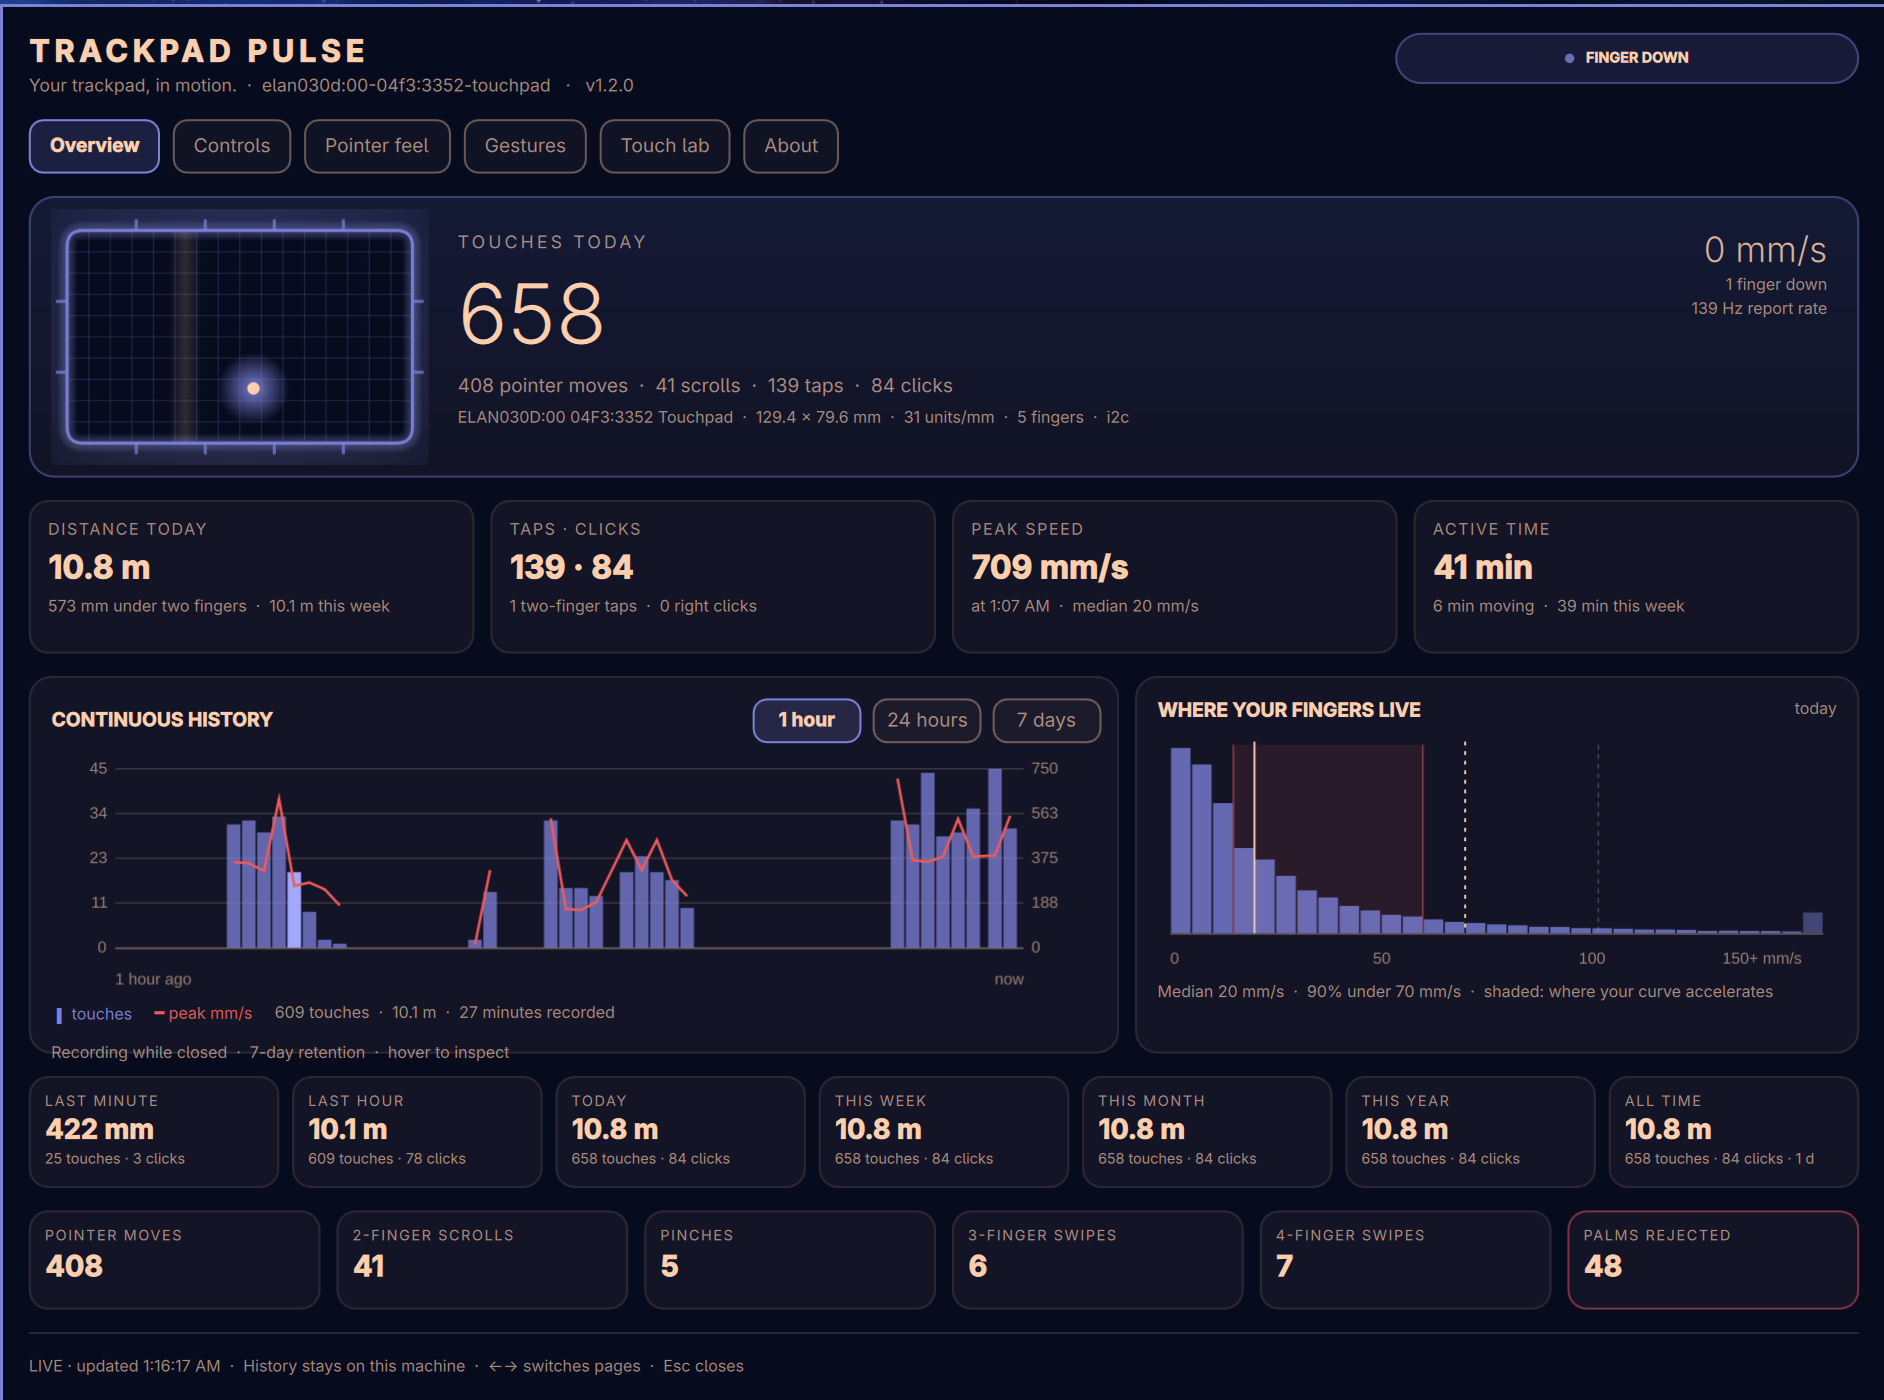
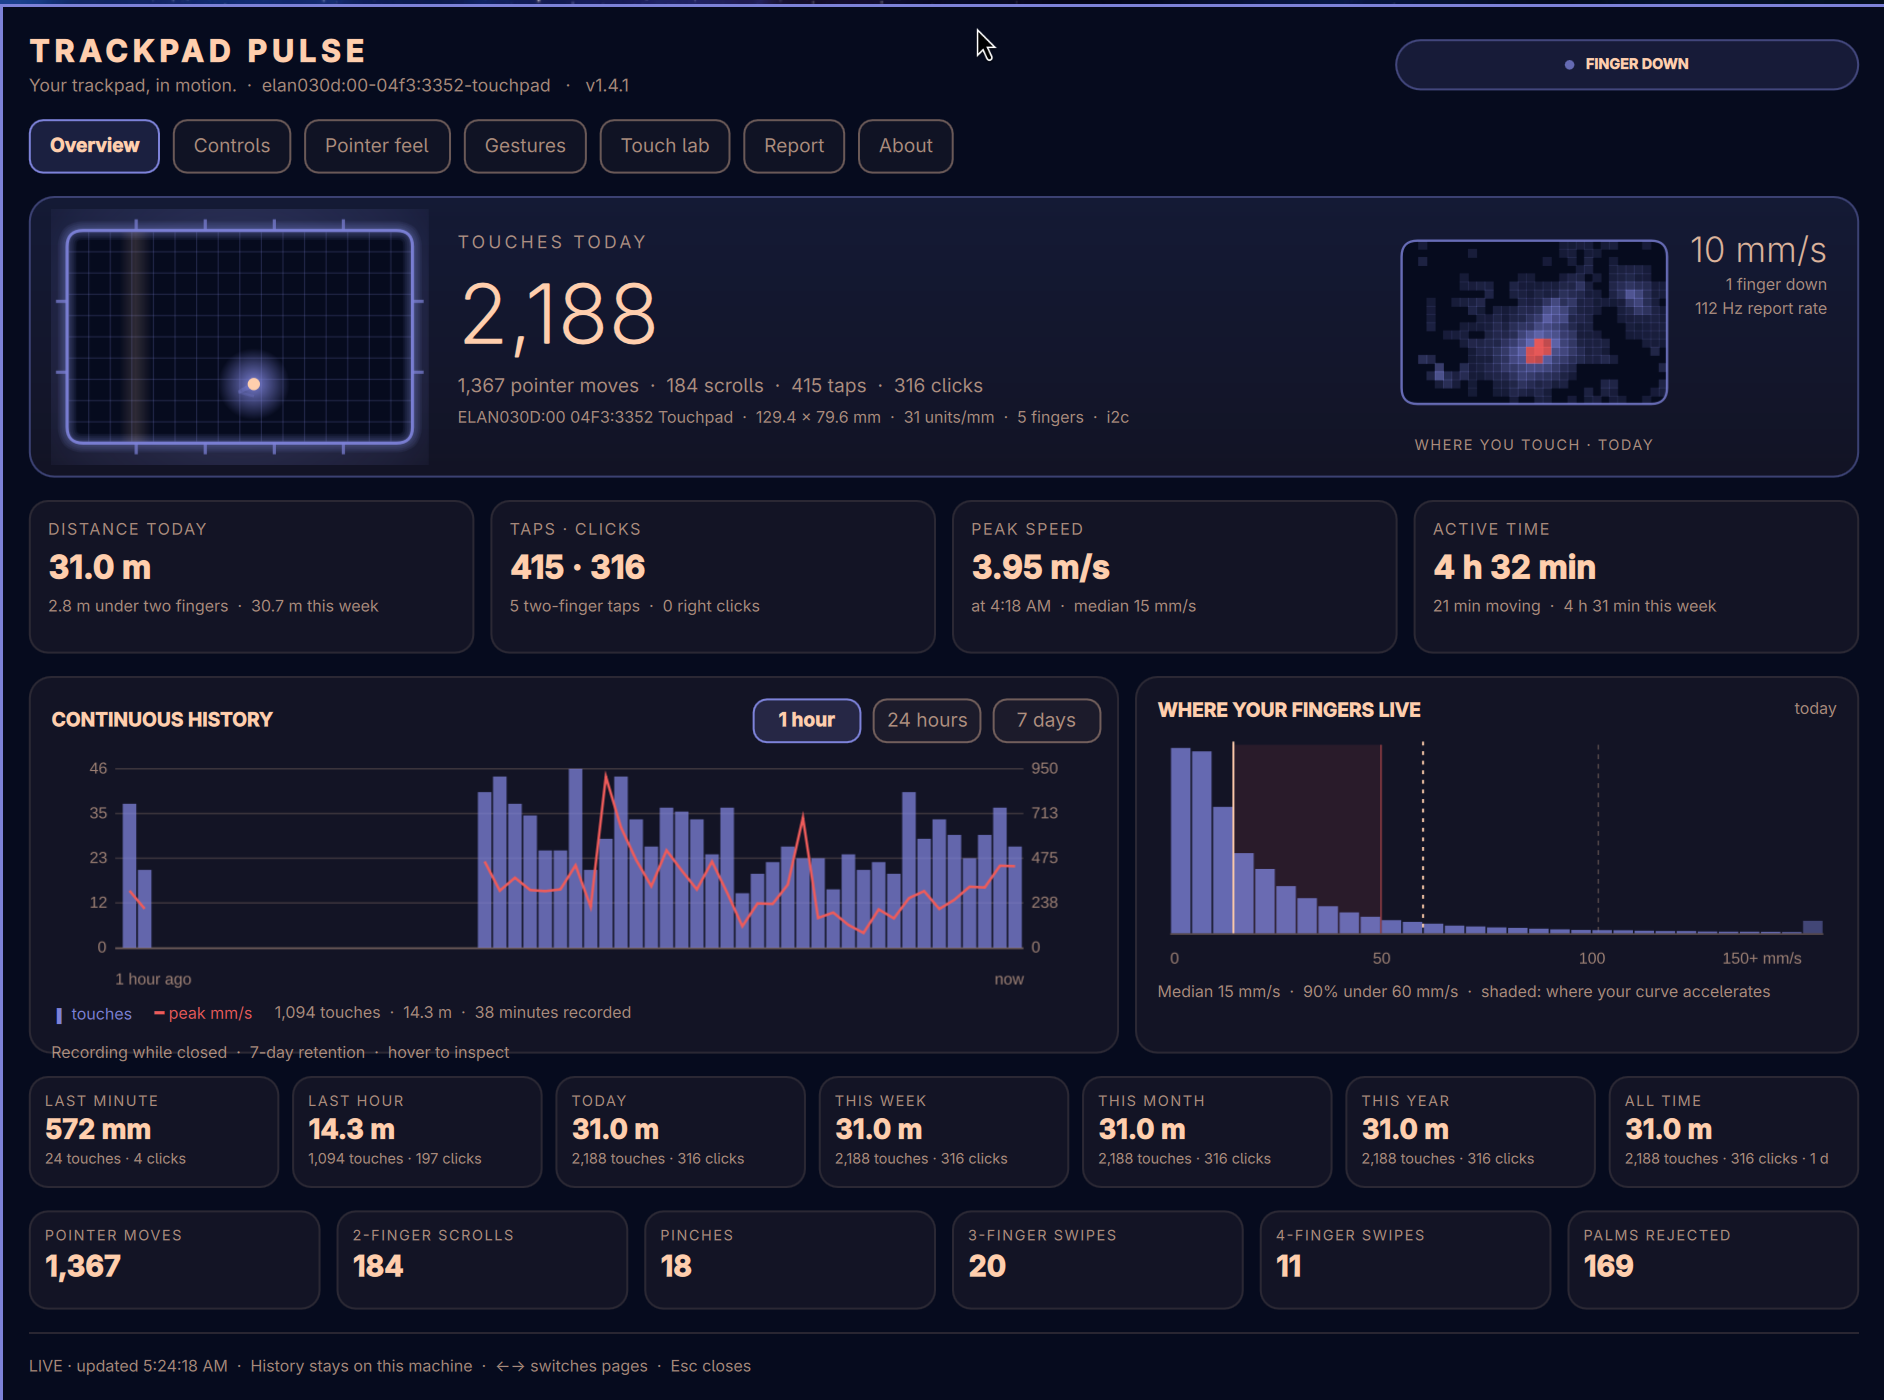
feat: touch heatmap in the Overview hero, v1.4.1
Fred: put the touch heatmap to the right of touches today in the open space.
Sits at x 852, 178x138, between the count and the speed column; caption
WHERE YOU TOUCH · TODAY. Overview still 840 of 960 px.

Claude-Session: https://claude.ai/code/session_01GSLoLKbCxgFZvx5aaabvan

diff --git a/Panel.qml b/Panel.qml
@@ -1217,6 +1217,14 @@ Panel {
                   : root.pads.length ? root.pads[0].name + "  ·  not readable" : root.deviceName
               }
             }
+            // Where you touch, today, in the span between the count and the speed.
+            HeatMap {
+              x: 852; y: 10; width: 178; height: 138
+              visible: !root.cursorOnly
+              heat: root.today.heat || []; cols: Pulse.num(root.snap.heatW) || 32; rows: Pulse.num(root.snap.heatH) || 20
+              aspect: root.padAspect; tint: root.tint; hot: root.heat; ink: root.ink; surface: Color.background
+            }
+            Label { x: 852; y: 150; width: 178; horizontalAlignment: Text.AlignHCenter; visible: !root.cursorOnly; font.pixelSize: 9; font.letterSpacing: 1; text: "WHERE YOU TOUCH · TODAY" }
             Column {
               anchors.right: parent.right; anchors.rightMargin: 20; anchors.top: parent.top; anchors.topMargin: 20
               spacing: 2

diff --git a/CHANGELOG.md b/CHANGELOG.md
@@ -2,6 +2,10 @@
 
 Versions follow semver and live in `manifest.json`, which the panel header, the About page and `status` all read. Every release is tagged `vX.Y.Z`.
 
+## 1.4.1 — 2026-09-14
+
+- Overview: the touch heatmap now sits in the hero card beside the touch count, in the span left of the live speed readout.
+
 ## 1.4.0 — 2026-09-14
 
 - **Fullscreen apps as gestures.** A new catalogue group with the default terminal and every launchable desktop entry on the machine, each opened as a fullscreen window. Omarchy's launchers detach through `setsid` and `uwsm-app`, so Hyprland's exec-rule prefix cannot follow them; the recorder launches, watches the client list for the window that appears, focuses it by address and fullscreens it. Searchable in every gesture dropdown.
